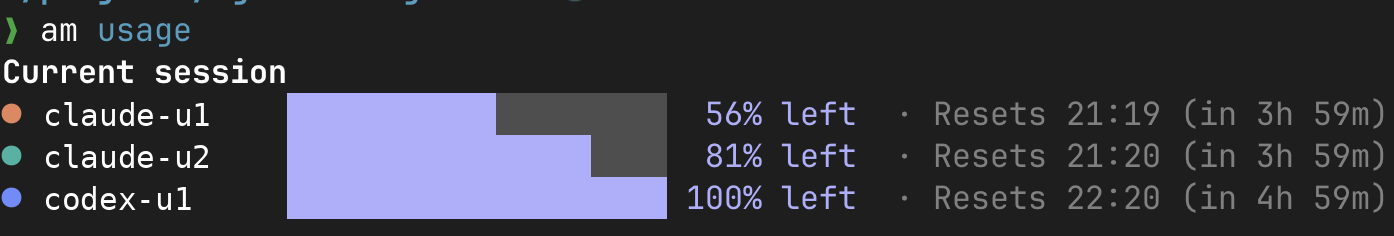
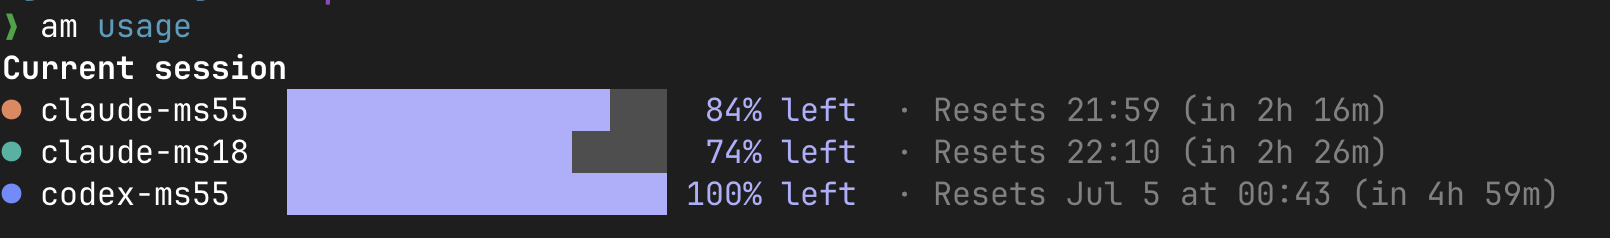
name change to Agent Manager

diff --git a/docs/RELEASE.md b/docs/RELEASE.md
@@ -1,0 +1,116 @@
+# Releasing Agent Manager
+
+How to cut a signed, notarized GitHub release. Releases are built and published
+**manually from a Mac** with the Developer ID cert in its keychain — there is no
+CI release pipeline (deliberate: keeps the signing key off shared compute).
+
+The whole flow is driven by the `release` target in the [`Makefile`](../Makefile);
+this doc is the surrounding checklist.
+
+---
+
+## One-time setup
+
+Do these once per machine. They persist in the login keychain.
+
+### 1. Developer ID signing identity
+
+Signing binds Keychain / TCC / Background-items grants to the certificate, so the
+same cert must sign every release. Confirm it's present:
+
+```bash
+security find-identity -v -p codesigning | grep "Developer ID Application"
+# expect: Developer ID Application: Marin Sokol (H33MHC4C79)
+```
+
+If it's missing, install the cert + private key (from the Apple Developer account)
+into the login keychain before continuing.
+
+### 2. Notarization credentials
+
+Store an App Store Connect app-specific password once, under the profile name the
+Makefile expects (`agent-manager`):
+
+```bash
+xcrun notarytool store-credentials agent-manager \
+  --apple-id [email redacted] --team-id H33MHC4C79
+# paste an app-specific password generated at https://account.apple.com
+```
+
+Verify it works:
+
+```bash
+xcrun notarytool history --keychain-profile agent-manager
+```
+
+---
+
+## Usual release
+
+Every release, from a clean checkout on `main`:
+
+### 1. Pick the version
+
+The version is read from `CFBundleShortVersionString` in
+[`Support/Info.plist`](../Support/Info.plist) and flows into the zip name and the
+tag. Bump it there if this release should advance the number:
+
+```bash
+/usr/libexec/PlistBuddy -c "Print :CFBundleShortVersionString" Support/Info.plist
+# edit Support/Info.plist to bump, then commit the bump
+```
+
+### 2. Commit and clean the tree
+
+`gh release create` tags whatever is committed at `HEAD`, so the working tree must
+be clean and the version bump committed:
+
+```bash
+git status          # should be clean
+git switch main && git pull
+```
+
+### 3. Build, test, notarize, staple
+
+```bash
+make release
+```
+
+This runs `swift test`, builds a release-config signed `.app` with the hardened
+runtime + secure timestamp, zips it, submits to Apple with `--wait` (the polling
+dots can take several minutes — normal), staples the notarization ticket to the
+`.app`, and re-zips so the stapled ticket rides along. Output:
+`.build/AgentManager-<version>.zip`.
+
+### 4. Publish
+
+```bash
+VERSION=$(/usr/libexec/PlistBuddy -c "Print :CFBundleShortVersionString" Support/Info.plist)
+gh release create "v$VERSION" ".build/AgentManager-$VERSION.zip" \
+  --title "Agent Manager $VERSION" \
+  --notes "Download the zip, unzip, and drag AgentManager.app to /Applications."
+```
+
+### 5. Verify the published artifact
+
+Download the release zip on a clean machine (or a fresh directory) and confirm
+Gatekeeper accepts it offline:
+
+```bash
+spctl -a -vvv --type exec /path/to/AgentManager.app
+# expect: accepted, source=Notarized Developer ID
+```
+
+---
+
+## Notes
+
+- **No CI secrets.** The signing key never leaves your Mac's keychain. If this
+  ever moves to GitHub Actions, the cert (`.p12`) and an App Store Connect API key
+  would have to live as encrypted Actions secrets scoped to a protected
+  environment — see the discussion in the project history before doing that.
+- **Keep the bundle path stable.** launchd's Background-items approval binds to
+  `.build/AgentManager.app`; a `make clean` costs a re-approval but does not
+  affect downloaders.
+- **Tickets attach to bundles, not zips.** That's why `make release` re-zips the
+  `.app` *after* stapling — the second zip is the one you publish.

diff --git a/README.md b/README.md
@@ -1,10 +1,10 @@
 # Agent Manager
 
-MacOS app for juggling multiple Claude Code and Codex accounts on the same machine. 
+A macOS app for juggling multiple Claude Code and Codex accounts on the same machine.
 
-Allows you to run each account as separate agent session, keep an
+It lets you run each account as a separate agent session, keep an
 eye on how much usage each one has left, and warm up an account's usage
-window to increase the amount of tokens available.
+window to increase the number of tokens available.
 
 > Agent Manager only touches accounts **you own and pay for**. It drives the
 > official `claude` / `codex` CLIs and never proxies or stores your OAuth tokens —
@@ -14,7 +14,7 @@ window to increase the amount of tokens available.
 
 ### 1. Run any account independently
 
-![](screenshots/agents-view.png)
+![Agents screen: each account listed with its provider, connection status, and remaining usage](screenshots/agents-view.png)
 
 ```bash
 am run <id> [<args forwarded to claude/codex>]
@@ -38,9 +38,9 @@ The **Source home** effectively groups accounts: everything pointing at the
 same folder shares settings and history, so you can run a few work accounts
 off one source home and your personal ones off another, fully apart.
 
-### 2. Easily track usage
+### 2. Track usage at a glance
 
-Track each account usage from the menu bar (
+Track each account's usage from the menu bar (
 individual menu bar entries or one collapsed) or from the CLI (`am usage`).
 
 <table align="center">
@@ -49,20 +49,20 @@ individual menu bar entries or one collapsed) or from the CLI (`am usage`).
     <th>Menu bar — merged</th>
   </tr>
   <tr valign="top">
-    <td><img src="screenshots/menu-bar-individual-expanded.png" width="375"></td>
-    <td><img src="screenshots/menu-bar-collapsed.png" width="375"></td>
+    <td><img src="screenshots/menu-bar-individual-expanded.png" width="375" alt="Menu bar dropdown showing each account as its own entry with its usage"></td>
+    <td><img src="screenshots/menu-bar-collapsed.png" width="375" alt="Menu bar dropdown with all accounts merged into one collapsed entry"></td>
   </tr>
   <tr>
     <th colspan="2">CLI — <code>am usage</code></th>
   </tr>
   <tr>
-    <td colspan="2"><img src="screenshots/cli-usage-new.png" width="760"></td>
+    <td colspan="2"><img src="screenshots/cli-usage.png" width="760" alt="am usage output: a one-row capacity table across all connected accounts"></td>
   </tr>
 </table>
 
 ### 3. Warm up token windows
 
-Don't start your subscription's 5-hour usage window on your first request, but at fixed moment before, to maximize amount of tokens available when working.
+Instead of starting your subscription's 5-hour usage window on your first request, start it at a fixed time beforehand, to maximize the number of tokens available when working.
 
 Simply paint your working hours in the app, flip the **Scheduler active**
 switch, and Agent Manager fires a small ping to open each account's window just
@@ -81,7 +81,7 @@ am ping <id>             # open <id>'s 5h window now (also what the scheduler ru
 
 Each ping is a real interactive turn in the official CLI over a terminal —
 never an SDK or programmatic call — to stay future-proof and not lose access
-through campaigns like
+through policy changes like
 [this one](https://support.claude.com/en/articles/15036540-use-the-claude-agent-sdk-with-your-claude-plan).
 
 Pings stay minimal — a couple around the edges of your day, not all night. A
@@ -92,7 +92,7 @@ ping the Mac slept through is skipped, not fired late.
 seconds before each ping, the ping runs, and the Mac goes back to sleep if
 nobody's around. Firmware rule: a closed lid only wakes on AC power.
 
-**Lid closed *on battery*?** That's the one case no software can wake on Mac, so for Claude Code accounts we use routine's compute to start the token window. Just flip the **Claude Routine fallback** toggle in Preferences.  It keeps a tiny one-shot routine — "AgentManager Routine",
+**Lid closed *on battery*?** That's the one case no software can wake the Mac, so for Claude Code accounts we use a cloud routine's compute to start the token window. Just flip the **Claude Routine fallback** toggle in Preferences. It keeps a tiny one-shot routine — "AgentManager Routine",
 visible at claude.ai/code/routines — armed 5 minutes after each scheduled ping.
 A ping that runs locally disarms the pending routine, so it never fires; but a ping
 the sleeping Mac misses lets Anthropic's cloud run it instead (one minimal
@@ -102,7 +102,7 @@ wake.
 ## CLI reference
 
 ```
-am run <id> [<args>]     launch a session as <id>; remaining args go to claude/codex
+am run <id> [<args>]      launch a session as <id>; remaining args go to claude/codex
 am list                   list accounts with status + provider
 am usage [<id>]           capacity for connected accounts (--week, --provider, --sort, --no-color)
 am ping <id>              fire one ping now — opens <id>'s 5h window
@@ -142,7 +142,7 @@ Adding and connecting accounts, and painting your work hours, happen in the app
 ## Build & run
 
 ```bash
-git clone <your-fork-url> agent-manager
+git clone https://github.com/marinsokol5/agent-manager.git agent-manager
 cd agent-manager
 
 swift build            # library, CLI, and app
@@ -192,3 +192,10 @@ the app and CLI are thin layers over it.
 ## License
 
 [MIT](LICENSE) © 2026 Marin Sokol
+
+---
+
+_Agent Manager is an independent project — not affiliated with, endorsed by, or
+sponsored by Anthropic or OpenAI. "Claude", "Claude Code", and "Codex" are
+trademarks of their respective owners. It manages only accounts you own and pay
+for, and drives each provider's official CLI._